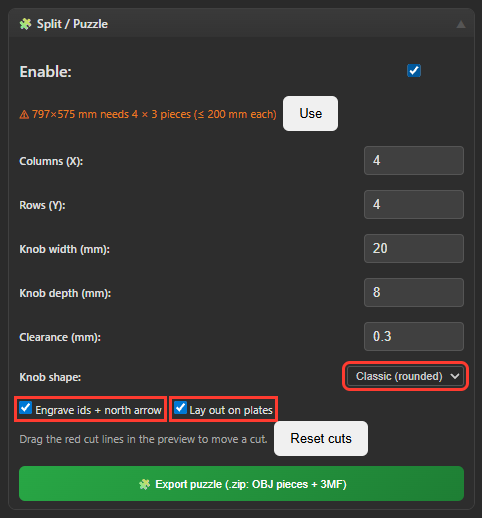
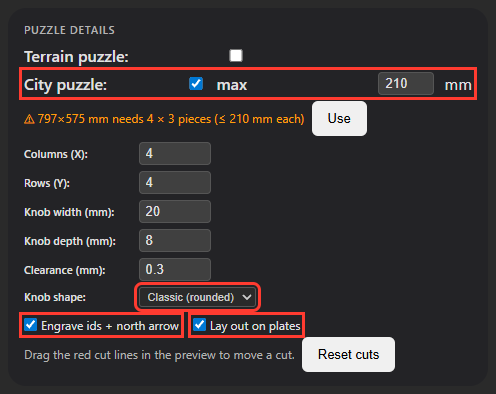
Guides: Extrude cards, Split into pieces, Check before printing, tool cards in Settings, Make it printable; new Extrude screenshots

diff --git a/docs/guides/city-stl-and-puzzle-sop.md b/docs/guides/city-stl-and-puzzle-sop.md
@@ -25,13 +25,28 @@ per-layer counts and timings, checks).
 
 ## 2. The process
 
-**Prerequisites**: venv (`scripts/setup-venv.ps1`); OpenTopography key in *Keys* (any 30 m
-source); server running (`Start 3D Maps.bat`).
+**Prerequisites**: venv (`scripts/setup-venv.ps1`); OpenTopography key in ⚙ Settings (the
+gear at the top right) → *Keys & data folders* (any 30 m source); server running
+(`Start 3D Maps.bat`).
+
+**Quick path**: pick the region, then **✨ Make it printable** in the header. It picks the
+*City* preset (box diagonal ≤ 25 km), *Mountain* (≤ 100 km) or *Region*, loads the DEM, sizes the
+model to fill the printer bed in one piece and opens Extrude; the banner there has
+**Undo**. The steps below are the full route, for a large model in puzzle pieces.
+
+How the app is laid out (since 2026-10-01):
+- Settings save themselves; the header shows "✓ Saved". There is no Save button.
+- **Extrude** is one column of cards: *Printed size*, *Model* (Printer, Width, Height,
+  Base, **Split into pieces**) and *Download* (one button, plus *Check before printing*).
+- Everything else in Extrude is a **tool card** (Vertical & surface, 3D view, City model
+  layers, Puzzle details, Engraving & contours, Cross-section, Model score). Tool cards
+  show only when switched on: ⚙ Settings → *Mode* → *Custom* and the tool's switch, or
+  *Everything* for all of them.
+- Guides, Results, Diagnostics, Keys and the API docs are in ⚙ Settings → *Account & help*.
 
 Screenshots: Granada + Alhambra (N 37.1873, S 37.1693, E −3.5780, W −3.6093), taken by
 `Code/claude/scripts/sop_screenshots.py` (outside the repo; its docstring says how to
-refresh them). A red outline marks the control each step talks about. "Extrude → 📤
-Export" below is the Export tab inside the Extrude view (there is no top-level Export tab).
+refresh them). A red outline marks the control each step talks about.
 
 1. **Pick the area** (Explore): select or draw the region (type in "Search regions…" to
    find a saved one). Check that landmarks are inside the box with margin: the
@@ -68,7 +83,7 @@ Export" below is the Export tab inside the Extrude view (there is no top-level E
 
 3. **Terrain edits** (optional, Edit → ⊕ Composite): water depth, land cover, curve edits.
    These are the *terrain stage*. The Composite's buildings / roads / waterways / walls
-   toggles are 2D preview only; in 3D those come from the City Model layers.
+   toggles are 2D preview only; in 3D those come from the City model layers (step 8).
 
    ![Composite](img/city/05-composite.png)
    *The Composite panel: City / OSM is marked "2D preview only"; ✓ Apply to DEM writes the
@@ -100,59 +115,74 @@ Export" below is the Export tab inside the Extrude view (there is no top-level E
    *Find landmarks: Catedral de Granada (50 m, 41 parts, 5 roof shapes) first; click a row
    for its editor.*
 
-5. **Model** (Extrude → **Build**; the line at its top compares the model's printed size with the bed): the line under the preview shows "1 mm = X m" and the
-   vertical exaggeration; the bed outline and its label show fit. Vertical: *auto* = true
-   scale below a 20 km diagonal, fit to *Fit height* above; override with *True scale ×
-   exag.* or *Fit to height*. Smoothing 3×3. With the City preset's puzzle on, the red
-   lines are already the piece grid.
+5. **Model** (Extrude → *Printed size* and *Model* cards): *Printed size* gives W × D × H,
+   whether it fits the printer bed ("⚠ Bigger than the … bed: lower the width, or split
+   into C × R pieces") and the scale; the line under the preview repeats "1 mm = X m ·
+   scale 1 : N". In the *Model* card:
+   - **Printer**: your bed (default Ender 220 × 220); remembered in this browser.
+   - **Width**: the model's width; it sets mm per pixel (797 px at 1 mm/px → 797 mm).
+     **Fill bed** sizes the model to the bed in one piece; a new DEM is sized that way
+     unless *Split into pieces* is on (the City preset turns it on).
+   - **Height**: vertical exaggeration (×1.0 = true scale); for regions over 20 km it is
+     the relief height in mm instead (Vertical *auto* fits them).
+   - **Base**: the solid plate under the terrain (10 mm).
+   - **Split into pieces**: a jigsaw puzzle cut to the bed; the red lines in the preview
+     are the piece grid.
+   - The exact mm/px, Vertical mode (*auto* = true scale below a 20 km diagonal, fit to
+     *Fit height* above), Smoothing (3×3) and Sea-level cap are in the *Vertical &
+     surface* tool card (switch it on in ⚙ Settings).
 
    ![Extrude](img/city/09-extrude.png)
-   *797 × 575 × 81 mm at 1 mm/px: "1 mm = 3.5 m (1:3,472) · vertical 1× (true scale)";
-   bed 250 × 210 "too small", 4 × 3 cut lines.*
+   *Width 797 mm (1 mm/px): 797 × 575 × 81 mm, "1 mm = 3.5 m · scale 1 : 3,472", Height
+   true scale ×1.0; bigger than the Ender 220 × 220 bed, so Split into pieces is on: 4 × 3
+   cut lines.*
 
-6. **Pre-flight** (Extrude → 📤 Export → ✈ Pre-flight check, *City model* or *Terrain
-   puzzle*, **Run pre-flight**; seconds for terrain, about a minute with 24 k buildings):
-   size vs the bed, scale and vertical exaggeration, piece grid, per-layer shapes with the
-   `widened` / `capped` counts the build will report, thinnest feature, tallest spike,
-   estimated faces, filament (g PLA) and print time, and a warning list. Fix what it flags
-   before building (layers not yet cached are listed, not counted).
+6. **Check before printing** (Extrude → *Download* card → *Check before printing*; pick
+   *City model* or *Terrain puzzle*, **Run pre-flight**; seconds for terrain, about 15 s
+   to a minute with 24 k buildings): size vs the bed, scale and vertical exaggeration,
+   piece grid, per-layer shapes with the `widened` / `capped` counts the build will
+   report, thinnest feature, tallest spike, estimated faces, filament (g PLA) and print
+   time, and a warning list. Fix what it flags before downloading (layers not yet cached
+   are listed, not counted).
 
-   ![Pre-flight](img/city/10-preflight.png)
-   *796 × 574 × 81 mm, 1:3,472, 4 × 3 boolean pieces; buildings: 3,291 widened, 1,449
-   capped; railways and green not cached yet (fetched at build time).*
+   ![Check before printing](img/city/10-preflight.png)
+   *796 × 574 × 81 mm, 1:3,472, 4 × 3 boolean pieces (≤ 199 × 191 mm); buildings: 3,291
+   widened, 1,448 capped; ~5.2 kg PLA, ~146 h.*
 
-7. **Puzzle options** (Extrude → 📤 Export → 🧩 Split / Puzzle; they apply to the City
-   Model puzzle too): knob shape (*classic* rounded, *dovetail*, *rectangular*), engraved
-   piece ids + north arrow on the underside (on by default), *Lay out on plates* (one 3MF
-   per bed). These controls only show while Split / Puzzle's **Enable** is ticked, and
-   while it is ticked the preview draws *its* Columns × Rows grid and the City Model build
-   ignores dragged cuts. For a City Model puzzle: tick *Enable*, set the options, untick
-   it again (the options stay), then drag the red City-grid cuts in the preview (a cut
-   stops where a piece would get too small for its knobs); *Reset cuts* (visible with
-   *Enable* ticked) goes back to equal pieces.
+7. **Puzzle details** (tool card: switch on ⚙ Settings → *Puzzle details*, or Mode
+   *Everything*). *City puzzle* is what *Split into pieces* turns on for a city box;
+   *max* is the largest piece (bed − 10 mm, 210 mm on the Ender). Knob shape (*classic*
+   rounded, *dovetail*, *rectangular*), knob width / depth and clearance apply to both
+   puzzles; engraved piece ids + north arrow on the underside (on by default); *Lay out
+   on plates* (one 3MF per bed). *Columns × Rows* belong to the *Terrain puzzle*: while
+   that box is ticked the preview draws its grid and the city build ignores dragged
+   cuts, so leave it off for a city. Drag the red cuts in the preview to move one (a cut
+   stops where a piece would get too small for its knobs); **Reset cuts** goes back to
+   equal pieces.
 
-   ![Puzzle options](img/city/11-puzzle-options.png)
-   *Enable ticked: knob shape, engraving and plate layout (Columns × Rows are the terrain
-   puzzle's).*
+   ![Puzzle details](img/city/11-puzzle-options.png)
+   *City puzzle on, max 210 mm → 4 × 3 pieces; knob shape, engraving and plate layout.*
 
    ![Dragged cut](img/city/12-drag-cuts.png)
-   *Enable unticked again: the City grid, left vertical cut dragged east — the label
-   reads "4×3 custom · drag cuts".*
+   *The City grid with a vertical cut dragged east — the label reads "4×3 custom · drag
+   cuts".*
 
-8. **Build** (Extrude → 📤 Export → 🏙 City Model): toggle layers per situation (see §3),
-   keep *Puzzle pieces* on with *max* = bed − 10 mm (set from the Printer section's bed).
-   **Build city model (.zip)**. One build writes the merged STL, the per-layer 3MF, the
-   puzzle (pieces in place + laid-out plates) and `report.json`. The progress bar above
-   the Extrude tabs shows the server's step and the elapsed time (e.g. "Building
+8. **Download** (Extrude → *Download* card): for a box up to 25 km diagonal the button is
+   **⬇ Download model (.zip)**, or **⬇ Download model + pieces (.zip)** with *Split into
+   pieces* on. Layers per situation (see §3) are in the *City model layers* tool card
+   (switch it on in ⚙ Settings). One build writes the merged STL, the per-layer 3MF, the
+   puzzle (pieces in place + laid-out plates) and `report.json`. The progress bar at the
+   top of the Extrude panel shows the server's step and the elapsed time (e.g. "Building
    model... (4:05)") with **✕ Cancel**; the download and a "CITY ready" toast (kept up
    for its full 5 s) mark the end.
 
-   ![City Model](img/city/13-city-model.png)
-   *All ten layers, puzzle pieces ≤ 200 mm (Prusa 250 × 210 bed) → 4 × 3 pieces.*
+   ![Download and city layers](img/city/13-city-model.png)
+   *Download model + pieces (.zip) above the City model layers card: all layers on but
+   trails.*
 
    ![Build finished](img/city/14-build-finished.png)
-   *"CITY ready" after ~10 min (this run also fetched the uncached railways and green
-   layers from Overpass).*
+   *"CITY ready" after 92 s (every OSM layer already cached; a build that has to fetch
+   layers from Overpass takes up to ~10 min).*
 
 9. **QA**: open `report.json` — `check` (size vs bed, faces, watertight, widened/clamped
    per layer, filament and time from the real mesh, warnings), `merged.watertight`,
@@ -160,9 +190,9 @@ Export" below is the Export tab inside the Extrude view (there is no top-level E
    fixed", tallest spike. Slicer profile for terrain puzzles:
    [printing-prusaslicer.md](printing-prusaslicer.md).
 
-Terrain-only models (no city) use the same route: *Extrude → 📤 Export → STL/OBJ/3MF* or
-*Puzzle* build the city model with no layers, so they get the same adaptive mesh and
-scale. A terrain-only puzzle is cut the fast way (pieces meshed straight from the
+Terrain-only models (no city, box diagonal > 25 km) use the same route: the Download card offers
+*3MF / STL / OBJ*, or the terrain puzzle when *Split into pieces* is on. Both build the
+city model with no layers, so they get the same adaptive mesh and scale. A terrain-only puzzle is cut the fast way (pieces meshed straight from the
 heightfield, see §4).
 
 The Extrude preview is the adaptive mesh capped at 150 k faces (tolerance raised until it
@@ -187,7 +217,8 @@ half its length within 60 m of buildings or within 6 m of a road (report:
 `trails_kept` / `trails_dropped`). Granada's old trails layer was 4,293 features,
 3,605 of them town footways.
 
-Per layer (Extrude → 📤 Export → City Model table): enabled, mode (extrude / raised / engraved / water),
+Per layer (Extrude → *City model layers* tool card; switch it on in ⚙ Settings): enabled,
+mode (extrude / raised / engraved / water),
 height or depth, line width. Printability rules apply to every layer: features narrower
 than 0.8 mm are widened, extruded heights capped at 8 × footprint width (reported).
 

diff --git a/docs/guides/large-region-sop.md b/docs/guides/large-region-sop.md
@@ -50,6 +50,13 @@ lakes ≥ 1 ha 2 m below the shore. 0.5 mm per pixel. Run through the app's rout
 **Prerequisites**: as in the city SOP (venv, OpenTopography key, server running). Rivers
 use HydroRIVERS, downloaded per continent on first use (§5); lakes use Overpass.
 
+**Quick path**: pick the region, then **✨ Make it printable** in the header. It loads the
+DEM, sizes the model to fill the bed in one piece and opens Extrude (with **Undo**), using
+the *Region* preset for a box diagonal over 100 km and *Mountain* for 25–100 km (Middle
+Rhine, Sierra Nevada: pick *Region* in step 2 instead to get rivers and lakes). Rivers and
+lakes still need step 4 (Composite → Apply to DEM). Extrude's layout, tool cards and ⚙ Settings are
+described in the city SOP, §2.
+
 Screenshots: Grand Canyon reference box (N 36.47, S 35.97, E −111.78, W −112.88), taken
 by `Code/claude/scripts/sop_screenshots.py` (outside the repo; its docstring says how to
 refresh them). A red outline marks the control each step talks about.
@@ -93,35 +100,41 @@ refresh them). A red outline marks the control each step talks about.
    *HydroRIVERS, min order 3, depth ×10; the combined histogram and the range line
    (517 m — 2811 m) show the carved composite before Apply.*
 
-5. **Extrude**: *Resolution (mm/px)* = target size / longest side in px (0.5 → ~400–450
-   mm); *Fit height* 30 mm is the fitted relief; lower *Base* from 10 to 3–5 mm for large
-   prints (10 mm is ~40 % of the filament here). The line under the preview gives the
-   scale and the vertical exaggeration; the bed outline and its label show the fit.
+5. **Extrude → Model card**: a new DEM is sized to fill the printer bed (*Printer*,
+   default Ender 220 × 220). For a bigger print drag **Width** (it sets mm per pixel:
+   0.5 mm/px → ~400–450 mm; the exact value is in the *Vertical & surface* tool card).
+   **Height** is the fitted relief (30 mm) because Vertical *auto* fits regions over
+   20 km. Lower **Base** from 10 to 3–5 mm for large prints (10 mm is ~40 % of the
+   filament here). The *Printed size* card gives W × D × H, whether it fits the bed and
+   the scale; the line under the preview repeats the scale.
 
    ![Extrude](img/region/05-extrude.png)
-   *0.5 mm/px and 5 mm base: 404 × 227 mm, "1 mm = 244 m (1:244,155) · vertical 3.2× true
-   scale (fit to height)"; the bed label reads "too small".*
+   *Width 404 mm (0.5 mm/px) and 5 mm base: 404 × 227 × 35 mm, "1 mm = 244 m · scale
+   1 : 244,155"; Printed size warns it is bigger than the Ender 220 × 220 bed (2 × 2 pieces).*
 
-6. **Pre-flight** (Extrude → 📤 Export → ✈ Pre-flight check): pick *Terrain puzzle* (or
-   *City model*, which with every layer off is the terrain) and **Run pre-flight**: size
-   vs bed, scale, vertical exaggeration, piece grid. Expect 1.3–3× the estimated faces.
+6. **Split and check** (Extrude → Model card → **Split into pieces**; it sets the puzzle
+   grid to the bed), then Download card → **Check before printing**: pick *Terrain puzzle*
+   (or *City model*, which with every layer off is the terrain) and **Run pre-flight**:
+   size vs bed, scale, vertical exaggeration, piece grid. Expect 1.3–3× the estimated faces.
+   Grid, knobs and clearance are in the *Puzzle details* tool card (switch it on in
+   ⚙ Settings).
 
    ![Pre-flight](img/region/06-preflight.png)
-   *Terrain puzzle at the bed grid: 403 × 227 × 35 mm, 1:244,192, vertical 3.27×, 3 × 2
-   pieces (mask path), ~192 k faces (estimate), ~593 g, ~16.6 h.*
+   *Split into pieces on (2 × 2 needed); Terrain puzzle: 403 × 227 × 35 mm, 1:244,192,
+   vertical 3.27×, 2 × 2 pieces (mask path, ≤ 201.5 × 113.2 mm), ~192 k faces (estimate),
+   ~593 g, ~16.6 h.*
 
-7. **Export** (Extrude → 📤 Export): *STL* for one piece; for anything larger than the
-   bed open *🧩 Split / Puzzle*, tick **Enable**, click **Use** (sets Columns × Rows to the
-   bed grid), then **🧩 Export puzzle** (terrain puzzles take the mask path: fast,
-   watertight). The progress bar above the Extrude tabs shows the step and elapsed
-   time, with ✕ Cancel; the download and a "PUZZLE ready" toast mark the end (50–70 s
-   here). Watertightness is in the zip's
-   pieces, not the toast (only single-file STL/OBJ/3MF exports report faces and
+7. **Download** (Extrude → Download card): without pieces pick *3MF*, *STL* or *OBJ* and
+   **⬇ Download**; with *Split into pieces* on the button reads **⬇ Download puzzle
+   (.zip)** (terrain puzzles take the mask path: fast, watertight). The progress bar at
+   the top of the Extrude panel shows the step and elapsed time, with ✕ Cancel; the
+   download and a "PUZZLE ready" toast mark the end (15–70 s here). Watertightness is in
+   the zip's pieces, not the toast (only single-file STL/OBJ/3MF exports report faces and
    watertightness in the toast).
 
    ![Export finished](img/region/07-export-finished.png)
-   *3 × 2 puzzle: the red cut lines in the preview are the piece boundaries (drag to move
-   one); "PUZZLE ready" at the bottom right.*
+   *2 × 2 puzzle: the cut lines in the preview are the piece boundaries (drag to move
+   one; label "2×2 · drag cuts"); "PUZZLE ready" at the bottom.*
 
 8. **QA**: `X-Watertight` / toast (single-file exports), slicer size, and look at a river in the slicer's
    layer preview: it should show in at least two layers.
@@ -214,8 +227,8 @@ Process / pipeline:
 
 UI:
 1. Region preset: ~~set Projection to *Cosine Correction*~~ (done 2026-09-27), untick
-   *Water (ESA)* when Earth Engine is not configured, set Base 5 mm, and set mm/px
-   from the bed (pieces ≤ bed − 10 mm) as the City preset does.
+   *Water (ESA)* when Earth Engine is not configured, set Base 5 mm. (~~Set mm/px from
+   the bed~~: every new DEM now fills the bed, 2026-10-01.)
 2. Show the river depth on the print (mm) beside the depth slider, from the current scale.
 3. Apply to DEM: list skipped layers in the toast (the response now has `warnings`).
 4. Terrain puzzle: offer *max piece* (mm) like the City Model instead of only cols × rows.
